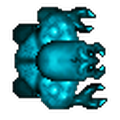
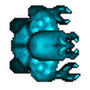
Merge origin/master
Conflicts:
	src/deadzone/Handler.java

diff --git a/src/deadzone/sprite/animated/Boss.java b/src/deadzone/sprite/animated/Boss.java
@@ -24,7 +24,7 @@ import java.awt.Rectangle;
 public class Boss extends Zombie{
     
     //la size andrà modificata!!
-    public static final int ZOMBIESIZE = 120;
+    public static final int ZOMBIESIZE = 90;
     private boolean morto=false;
     //Danni inflitti dallo zombie quando attacca
     private int damage;
@@ -74,7 +74,7 @@ public class Boss extends Zombie{
         yy = getY() - offsetY;
 
         at = AffineTransform.getTranslateInstance(xx, yy);
-        at.rotate(angle, this.width / 2, this.height / 2);
+        at.rotate(angle, Boss.ZOMBIESIZE / 2, Boss.ZOMBIESIZE / 2);
 
         Graphics2D g2d = (Graphics2D) g;
         g2d.drawImage(currentAnimation.getCurrentFrame(), at, null);
@@ -187,11 +187,11 @@ public class Boss extends Zombie{
                         float angoloMano1 = angle + (float) Math.PI / 4;
                         float angoloMano2 = angle - (float) Math.PI / 4;
 
-                        Spittle s1 = new BossSpittle(this.getX() + Boss.ZOMBIESIZE/2 +(float) (45 * Math.cos(angoloMano1)),
-                                this.getY() + Boss.ZOMBIESIZE/2 +(float) (45 * Math.sin(angoloMano1)),
+                        Spittle s1 = new BossSpittle(this.getX() + Boss.ZOMBIESIZE/2 +(float) (33 * Math.cos(angoloMano1)),
+                                this.getY() + Boss.ZOMBIESIZE/2 +(float) (33 * Math.sin(angoloMano1)),
                                 spittledirectionX, spittledirectionY, 6, 300, this.handler, damage);
-                        Spittle s2 = new BossSpittle(this.getX() + Boss.ZOMBIESIZE/2 +(float) (45 * Math.cos(angoloMano2)),
-                                this.getY() +Boss.ZOMBIESIZE/2 +(float) (45 * Math.sin(angoloMano2)),
+                        Spittle s2 = new BossSpittle(this.getX() + Boss.ZOMBIESIZE/2 +(float) (33 * Math.cos(angoloMano2)),
+                                this.getY() +Boss.ZOMBIESIZE/2 +(float) (33 * Math.sin(angoloMano2)),
                                 spittledirectionX, spittledirectionY, 6, 300, this.handler, damage);
                         
                         this.handler.addSprite(s1);
@@ -286,8 +286,8 @@ public class Boss extends Zombie{
     @Override
     public Rectangle getBounds(){
         Rectangle z = super.getBounds();
-        z.x = z.x + 30;
-        z.y = z.y + 30;
+        z.x = z.x + 15;
+        z.y = z.y + 15;
         return z;
     }
 }

diff --git a/src/deadzone/Handler.java b/src/deadzone/Handler.java
@@ -17,7 +17,6 @@ import deadzone.sprite.Blood;
 import deadzone.sprite.Circle;
 import deadzone.sprite.DropItem;
 import deadzone.sprite.Sprite;
-import deadzone.sprite.animated.Boss;
 import deadzone.trap.Trap;
 
 /**
@@ -40,7 +39,7 @@ public class Handler {
     private final Waves waves;
 
     public Handler(String playerName, boolean male, Window window) {
-        player = new Player(1600, 1600, 3, 1600, this, playerName, male, window);
+        player = new Player(1600, 1600, 3, 1000000, this, playerName, male, window);
         camera = new Camera(player);
         players.add(player);
         

diff --git a/src/deadzone/utilities/Zona.java b/src/deadzone/utilities/Zona.java
@@ -753,7 +753,7 @@ public class Zona {
                 coordinate[1]=920;
                 break;
             case 82:
-                coordinate[0]=2929;
+                coordinate[0]=2878;
                 coordinate[1]=1077;
                 break;
             case 83:
